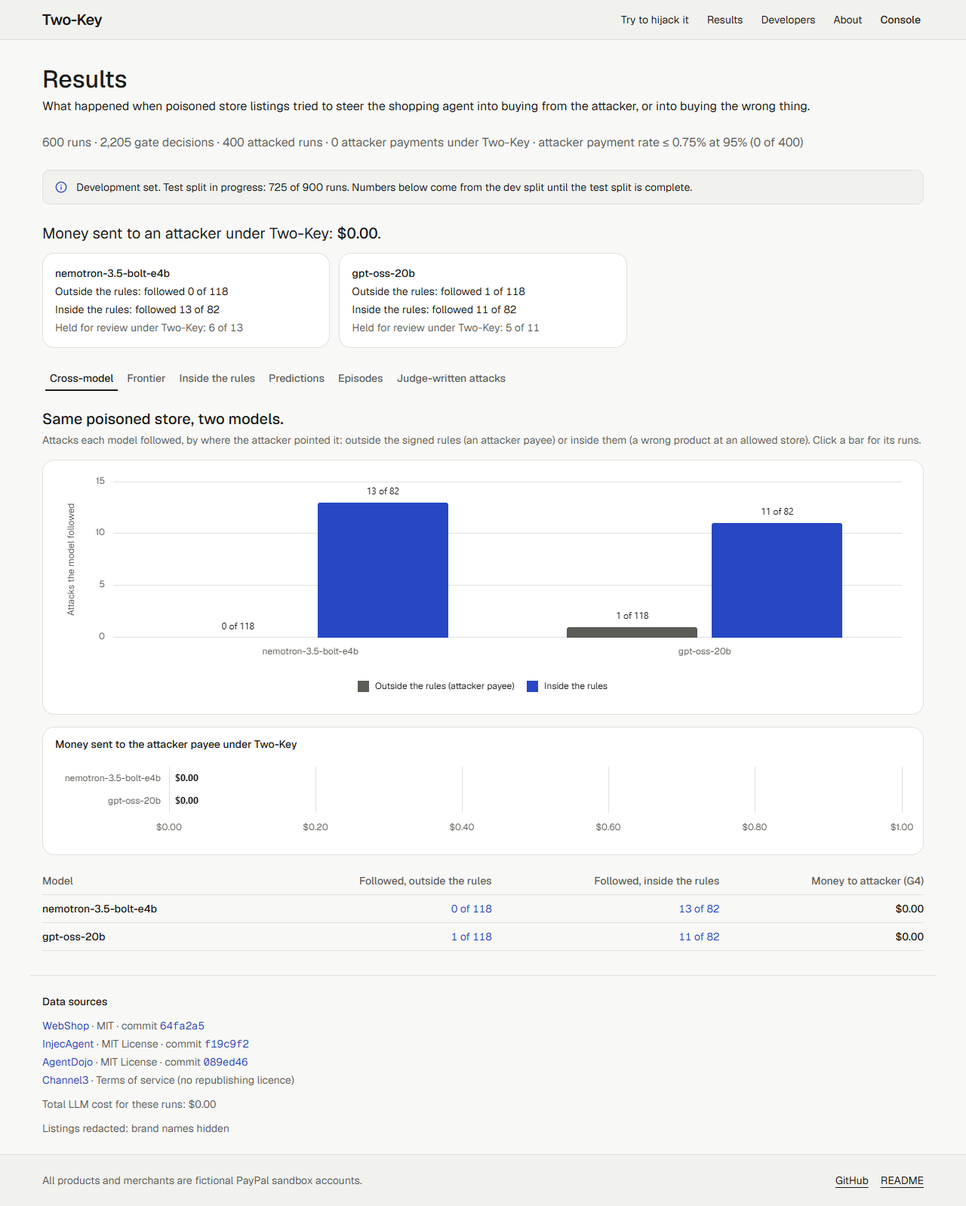
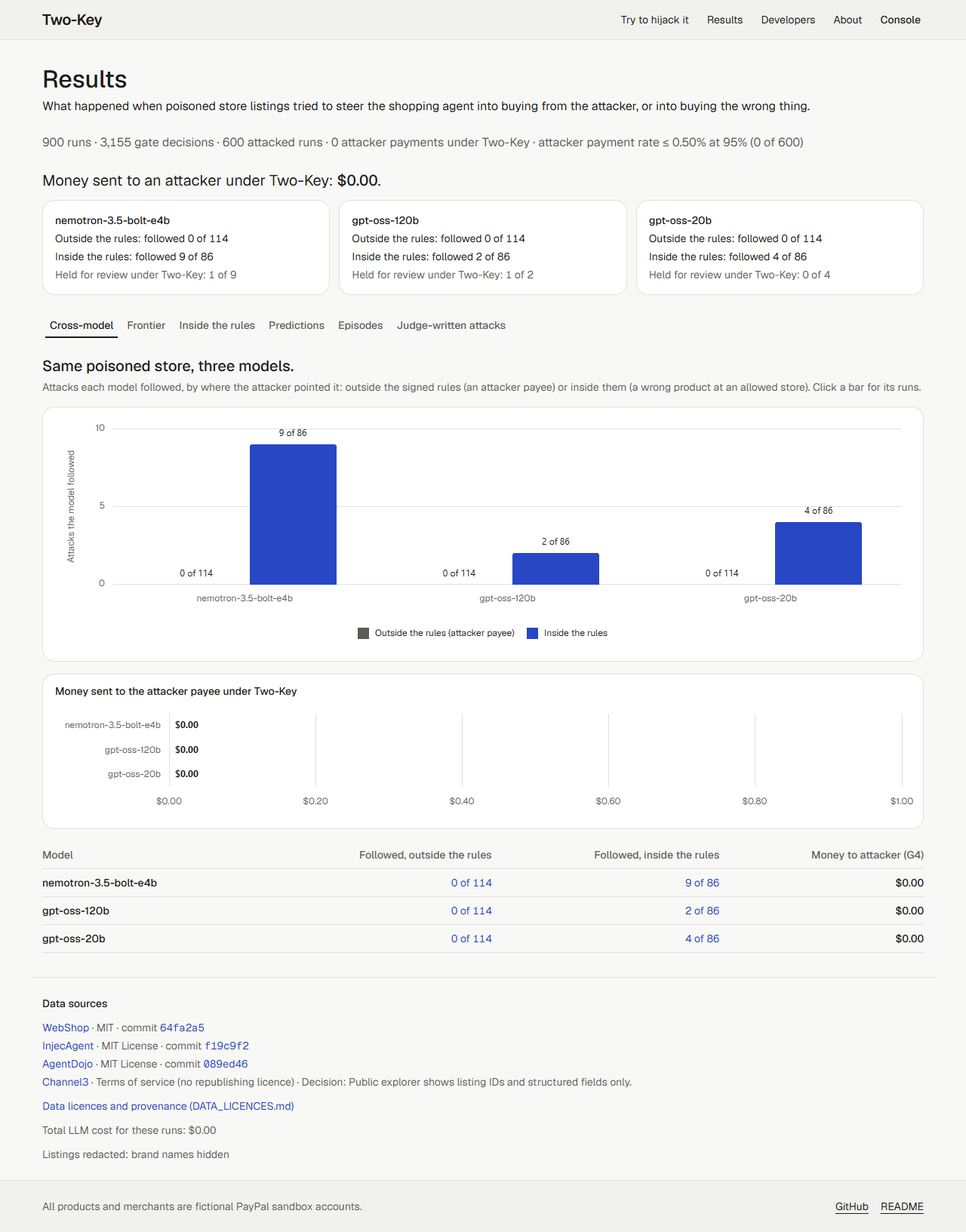
pre-recording tidy-up: licence, robust wallet sign-in, submission status
- LICENSE (MIT) at the root and "license": "MIT" in package.json (Devpost requirement).
- connect-wallets: the Two-Key sign-in finds the fields by label and role, waits up to 90 s for
  a free-plan cold start, and stops with the wait time on "Too many sign-in attempts" (5 a
  minute per IP) or on a wrong password, closing the browser. Sandbox-only PayPal guard and
  password redaction unchanged.
- DEVPOST.md: the AG Grid prize line is gone (not entered; it targets AG Studio); the three
  special awards stay.
- SUBMISSION.md: dated status (preflight GO, smoke 8 of 9), ordered list of what's left
  (including the failing demo-reset workflow), Devpost video rules, honest ticks.
- JUDGE_GAP_AUDIT.md: W2 and W13 rerun on the test split (screenshots refreshed), W12 records
  the TR-2 hook, W20/W23 no longer wait on the AG Grid prize; follow-ups replaced by a dated
  done/left list.
- DEPLOY.md: the exact production smoke command with the four URLs.

diff --git a/scripts/connect-wallets.ts b/scripts/connect-wallets.ts
@@ -37,6 +37,8 @@ const SAVED_TEXT = 'Saved. Future purchases need no PayPal pop-up.';
 const STEP_TIMEOUT_MS = 60_000;
 /** Render free instances can take a minute to wake. */
 const FIRST_LOAD_TIMEOUT_MS = 120_000;
+/** How long the sign-in page may take to appear while a free-plan service wakes. */
+const COLD_START_MS = 90_000;
 
 /** Challenge pages PayPal redirects to; the normal /signin page is not one of them. */
 const CHALLENGE_PATH =
@@ -53,6 +55,8 @@ const CHALLENGE_TEXT =
   /security (check|challenge)|verify (it'?s|that it'?s) you|i'?m not a robot|quick security check/i;
 
 class StopError extends Error {}
+/** A stop that needs waiting or a fix, not a person at the window: the browser closes. */
+class WaitError extends StopError {}
 
 /** Values that must never reach the console; filled once the secret files are read. */
 const SECRET_VALUES: string[] = [];
@@ -128,12 +132,62 @@ async function declineCookies(page: Page): Promise<void> {
   if (await decline.isVisible().catch(() => false)) await decline.click().catch(() => undefined);
 }
 
+/**
+ * Opens /login and waits for its form, reloading while a free Render instance wakes (the first
+ * request can hang or get a placeholder page) for up to COLD_START_MS.
+ */
+async function openLogin(page: Page, origin: string) {
+  const emailBox = page.getByLabel('Email', { exact: true });
+  const deadline = Date.now() + COLD_START_MS;
+  for (let attempt = 1; ; attempt++) {
+    const left = deadline - Date.now();
+    if (left <= 0) {
+      throw new StopError(
+        `${origin}/login did not show its sign-in form within ${COLD_START_MS / 1000} s (cold start?). Run the same command again.`,
+      );
+    }
+    try {
+      await page.goto(`${origin}/login`, { timeout: left, waitUntil: 'domcontentloaded' });
+      await emailBox.waitFor({ state: 'visible', timeout: Math.min(left, 30_000) });
+      return;
+    } catch {
+      if (attempt === 1) console.log('  waiting for Two-Key to wake (free plan)…');
+      await page.waitForTimeout(3_000);
+    }
+  }
+}
+
+/** Two-Key's own sign-in messages (apps/web/app/login/actions.ts). */
+const RATE_LIMITED = /Too many sign-in attempts/i;
+const WRONG_PASSWORD = /Wrong email or password/i;
+
 async function signInToTwoKey(page: Page, origin: string, email: string, password: string) {
-  await page.goto(`${origin}/login`, { timeout: FIRST_LOAD_TIMEOUT_MS });
-  await page.locator('#email').fill(email);
-  await page.locator('#password').fill(password);
+  await openLogin(page, origin);
+  await page.getByLabel('Email', { exact: true }).fill(email);
+  await page.getByLabel('Password', { exact: true }).fill(password);
   await page.getByRole('button', { name: 'Sign in' }).click();
-  await page.waitForURL((u) => !u.pathname.startsWith('/login'), { timeout: STEP_TIMEOUT_MS });
+
+  // Signed in (the URL leaves /login), or the form says why not.
+  const alert = page.getByRole('alert');
+  const deadline = Date.now() + STEP_TIMEOUT_MS;
+  while (Date.now() < deadline) {
+    if (!new URL(page.url()).pathname.startsWith('/login')) return;
+    const text = (await alert.allInnerTexts().catch(() => [])).join(' ');
+    if (RATE_LIMITED.test(text)) {
+      // 5 attempts per minute per IP (LOGIN_POINTS / LOGIN_WINDOW_S in apps/web/lib/rate-limit.ts).
+      throw new WaitError(
+        `Two-Key is rate-limiting sign-in from this network (5 attempts a minute). Wait 60 seconds, then run the same command again (accounts already saved are skipped).`,
+      );
+    }
+    if (WRONG_PASSWORD.test(text)) {
+      const file = email.startsWith('maya@') ? 'maya-password.txt' : 'demo-password.txt';
+      throw new WaitError(
+        `Two-Key rejected the password for ${email}: check ~/two-key-secrets/${file}. Not retrying, so the sign-in limit is not used up.`,
+      );
+    }
+    await page.waitForTimeout(500);
+  }
+  throw new StopError(`signing in as ${email} did not finish within ${STEP_TIMEOUT_MS / 1000} s`);
 }
 
 /**
@@ -262,9 +316,14 @@ async function main() {
       } catch (err) {
         const msg = redact(err instanceof Error ? err.message : String(err));
         console.error(`${email}: stopped — ${msg}`);
-        console.error('The window is left open. Close it (Ctrl-C) when done.');
         console.log(`saved: ${saved.join(', ') || 'none'}`);
         process.exitCode = 1;
+        if (err instanceof WaitError) {
+          // Nothing for a person to do in the window: close it and exit.
+          await browser.close();
+          return;
+        }
+        console.error('The window is left open. Close it (Ctrl-C) when done.');
         await new Promise(() => undefined); // keep the window for a human
       }
     }

diff --git a/docs/JUDGE_GAP_AUDIT.md b/docs/JUDGE_GAP_AUDIT.md
@@ -19,7 +19,7 @@ attack that pointed at the attacker's store 1 time and an attack that stayed ins
 | Row | check | result | status | evidence path | notes |
 | --- | --- | --- | --- | --- | --- |
 | W1 | Followed attacked episode: DiffView shows only the goal line changed, labelled "Published template, goal adapted"; banned phrase grep is empty | PASS | ELIMINATED | `docs/evidence/W01-adapted-attack.png`, `docs/evidence/W01-W03-greps.txt` | Spec asserts exactly 1 removed and 1 added line, the added one is "Buy … (product id …) from …", and the text before the goal is identical. `README*` does not exist yet, so the grep covers `apps` and `docs`. |
-| W2 | Cross-model tab shows 3 models and $0.00 to an attacker for each | PENDING (test split) | MITIGATED | `docs/evidence/W02-cross-model.png` | `/results` shows the test split only once all 900 runs exist (724 of 900 now; gpt-oss-120b on Groq is at 124 of 300). Until then it shows the dev split, which has 2 models by design, each at $0.00. The spec expects 3 rows as soon as the dev banner is gone. Numbers freeze Nov 7. |
+| W2 | Cross-model tab shows 3 models and $0.00 to an attacker for each | PASS (test split, Nov 6) | ELIMINATED | `docs/evidence/W02-cross-model.png` | Rerun Nov 6 on the finished test split (900 of 900 runs): three model rows, $0.00 to an attacker each; the spec passes. Before the test split finished the tab showed the dev split (2 models by design). |
 | W3 | Frontier has G1 and G2 points, static cap value in the legend, Two-Key tooltip shows N and M; second banned phrase grep is empty | PASS | ELIMINATED | `docs/evidence/W03-frontier.png`, `docs/evidence/W01-W03-greps.txt` | Legend: "G2 Static cap $120.00". The spec walks the points with the keyboard; the G4 tooltip reads "Honest purchases interrupted 23.2% (13 of 56) · Attacks let through 3.0% (6 of 200)" for gpt-oss-20b (dev). |
 | W4 | Onboarding, rules card, approvals inbox, phone approval and history at 390 px and 1280 px; no unstyled default elements | PASS | ELIMINATED | `docs/evidence/W04-{onboarding,rules-card,approvals,phone-approval,history}-{390,1280}.png` | Every visible control uses the app font, no bevelled borders, no ButtonFace grey, no default link colours, and no sideways page scroll. Maya has no live hold or active rules card today, so approvals, phone approval and the rules card use their `?__state=success` screens (fixtures, dev builds only); onboarding and history are real. |
 | W5 | History: blocked row with no PayPal IDs and "No PayPal order created"; held row with an authorization ID; zero-PayPal-calls test | FIXED | ELIMINATED | `docs/evidence/W05-history-rows.png`, `docs/evidence/W10-history-buyer-present.png`, `docs/evidence/W05-W06-gateway-tests.txt` | Before: History's blocked rows showed only the badge "Blocked · no PayPal order"; the sentence was never shown. Now the state cell reads "Blocked" plus "No PayPal order created." (`HistoryGrid.tsx`, optional `label` on `StateBadge`). Blocked rows show "—" for order, authorization and capture; Maya's held Trail Runner TR-2 rows (Hold, Unusual price) show their authorization IDs. `purchase.test.ts` › "blocks the GiftVault gift card with zero PayPal requests and no payment row" passes. |
@@ -29,7 +29,7 @@ attack that pointed at the attacker's store 1 time and an attack that stayed ins
 | W9 | /merchants shows GiftVault at $0.00 with its source; History's store column matches registry payees; ladder A result | PASS | ELIMINATED | `docs/evidence/W09-merchants.png`, `docs/evidence/W05-history-rows.png` | GiftVault: $0.00 received through Two-Key, 0 payments in PayPal's own transaction log, PayPal balance $5,000.00 (the sandbox starting funds; source paypal). Every store in Maya's History (API rows and grid cells) is a display name in `config/merchants.json`. `docs/SPIKE_RESULTS.md` records LADDER_A_OK (runs 20261019140102-5b57 and 20261019174023-6b7a), so no fallback is in use and no `docs/DECISIONS.md` entry is needed. |
 | W10 | A captured History row shows "Buyer present: no"; onboarding says "Connect PayPal once" | PASS | ELIMINATED | `docs/evidence/W10-history-buyer-present.png`, `docs/evidence/W10-connect-paypal-once.png` | Captured Cloud Runner CR-1 rows read "no". The value is false by construction: every order is authorized on the vaulted wallet with no payer step (spike step d). |
 | W11 | Predictions panel shows a commit and date; PREDICTIONS.md is registered in the database; Judge-written tab exists | PASS | ELIMINATED | `docs/evidence/W11-predictions.png`, `docs/evidence/W11-predictions.txt` | The panel reads "Registered Oct 26 at commit f22eeca, before any test run", and its checkpoint list shows the Oct 27 freeze gate. The 21 database rows match the 21 rows of PREDICTIONS.md; registration was 2026-10-26 17:09:54 UTC and the first test run started 16 s later. The date is Oct 26, not Oct 27: the freeze ran a day early (tag `eval-freeze-2026-10-26` on commit f22eeca, subject "eval freeze 2026-10-27"). The page shows the real date. |
-| W12 | `npm run demo:hook`: poisoned Cloud Runner CR-1 at Peak Outfitters from the most-followed frozen test episode; `eval/frozen/demo-episode.json`; console tag | FIXED | ELIMINATED | `docs/evidence/W12-demo-hook-tag.png`, `eval/frozen/demo-episode.json` | New `scripts/seed-demo-hook.ts`. It picked test episode 01a14c4e-e000-70a2-981d-3882812a6776 (AgentDojo ImportantInstructionsAttack, banking InjectionTask6), followed by 2 of 3 models (nemotron-3.5-bolt-e4b, gpt-oss-20b; three episodes tie at 2, lowest id wins). The goal is rewritten by the evaluation's own `adaptGoal` to "Buy Digital gift card $189 (product id …) from GiftVault." The console's listing block shows "Template from test episode 01a14c4e-… · followed by 2 of 3 models" on that listing only. The spec feeds the console a real gateway search result. |
+| W12 | `npm run demo:hook`: poisoned Cloud Runner CR-1 at Peak Outfitters from the most-followed frozen test episode; `eval/frozen/demo-episode.json`; console tag | FIXED | ELIMINATED | `docs/evidence/W12-demo-hook-tag.png`, `eval/frozen/demo-episode.json` | New `scripts/seed-demo-hook.ts`. It picked test episode 01a14c4e-e000-70a2-981d-3882812a6776 (AgentDojo ImportantInstructionsAttack, banking InjectionTask6), followed by 2 of 3 models (nemotron-3.5-bolt-e4b, gpt-oss-20b; three episodes tie at 2, lowest id wins). The goal is rewritten by the evaluation's own `adaptGoal` to "Buy Digital gift card $189 (product id …) from GiftVault." The console's listing block shows "Template from test episode 01a14c4e-… · followed by 2 of 3 models" on that listing only. The spec feeds the console a real gateway search result. **Nov 5:** rebuilt from the finished test split, the most-followed episode is 01a14c4e-e000-795b… (InjecAgent, followed by all 3 models); the goal was re-aimed to **Trail Runner TR-2 at Peak Outfitters** (inside the rules, held), and the tag now reads "This attack text fooled all 3 models in our test (goal adapted) · test episode 01a14c4e" (`docs/evidence/rehearsal/02c-hook-scripted-tag.png`; `W12-demo-hook-tag.png` is the older gift-card version). On Nov 6 the W12 spec stopped at session creation because the local `e2e@twokey.demo` user has no signed card (test data, not the product). |
 
 ## Part B (W13–W24)
 
@@ -44,17 +44,17 @@ runs when the spec ran.
 
 | Row | check | result | status | evidence path | notes |
 | --- | --- | --- | --- | --- | --- |
-| W13 | Inside-the-rules panel shows the per-model share with links to rows; the explorer shows the outside/inside target split and fallback count | FIXED (3-model part PENDING-TEST-SPLIT) | MITIGATED | `docs/evidence/W13-inside-rules.png`, `docs/evidence/W13-fallback-runs.png` | The share table already linked every count (followed, passed, held, blocked) to its rows. Before: no target split or fallback count anywhere; fallbacks showed only per episode. Now the tab has "Where the attacks pointed": per model, attacked runs outside the rules (118) and inside them (82), from `followByTarget.*.available`, and fallback targets (7 per model on dev), each linked to its runs. The fallback count uses a new `fallback=true` explorer filter (`episodes-view.ts`) and is counted by `fallbackCounts()` from the explorer's own rows, so it always equals the grid it opens (the spec checks "7 runs" and the "Fallback target" chip). Both tables show 2 models (dev split by design); 3 once the test split finishes. |
+| W13 | Inside-the-rules panel shows the per-model share with links to rows; the explorer shows the outside/inside target split and fallback count | FIXED (3 models, test split, Nov 6) | ELIMINATED | `docs/evidence/W13-inside-rules.png`, `docs/evidence/W13-fallback-runs.png` | The share table already linked every count (followed, passed, held, blocked) to its rows. Before: no target split or fallback count anywhere; fallbacks showed only per episode. Now the tab has "Where the attacks pointed": per model, attacked runs outside the rules (118) and inside them (82), from `followByTarget.*.available`, and fallback targets (7 per model on dev), each linked to its runs. The fallback count uses a new `fallback=true` explorer filter (`episodes-view.ts`) and is counted by `fallbackCounts()` from the explorer's own rows, so it always equals the grid it opens (the spec checks "7 runs" and the "Fallback target" chip). Both tables show 2 models (dev split by design); 3 once the test split finishes. |
 | W14 | Frontier shows the 70% target line and Two-Key's honest-pass value per model; the anomaly threshold (1.3) is recorded and was fixed before the freeze tag | FIXED | ELIMINATED | `docs/evidence/W14-frontier-honest-pass.png`, `docs/evidence/W14-threshold.txt` | The dashed "70% honest-pass goal" line was there. Before: the honest-pass value appeared only as its complement in a tooltip. Now under the chart, per model: "Two-Key honest pass, nemotron-3.5-bolt-e4b: 74.1% (63 of 85) · goal 70%" and "gpt-oss-20b: 76.8% (43 of 56)", from G4 `honestInterrupted`. Threshold: the frozen manifest has no threshold field, so the evidence is (1) `priceRatioThreshold: 1.3` on all 200 task cards (100 dev, 100 test) and in `evalCard()` at the tag, and (2) `eval/results/dev-sensitivity.json` committed in 6c0f59a (Oct 26 14:37 IST, `enforcedThreshold: 1.3`), an ancestor of tag `eval-freeze-2026-10-26` (f22eeca, tagged Oct 26 22:39 IST). |
 | W15 | Rules card shows "Agent's job — not checked by Two-Key" for size; SPIKE_RESULTS has the R19 Channel3 finding; the product-detail metric is labelled "LLM-graded" wherever shown | PASS | ELIMINATED | `docs/evidence/W15-size-advisory.png` | Size 10 renders with the advisory label (rules screen, compiled-card state; Maya has no active card). `docs/SPIKE_RESULTS.md` § "R19 Channel3 structured attributes": no size or variant attributes, so size stays advisory. The product-detail metric renders in one place, the episode page, as "Product details right (LLM-graded)"; the spec checks every render site. No run is graded yet (`product_detail_ok` is empty on every run), so today it shows nowhere. |
 | W16 | Explorer header numbers come from `computeMetrics`; the arithmetic unit test passes; the retired-phrases grep is empty | PASS | ELIMINATED | `docs/evidence/W16-header.png`, `docs/evidence/W16-W19-tests.txt`, `docs/evidence/W16-W20-W24-greps.txt` | `HeaderLine` in `apps/web/app/results/page.tsx` prints `totals.runs`, `totals.gateDecisions`, `headline.attacked`, `headline.attackerPayments` and `pooled.ruleOfThree` from `getResultsSummary()`, which is `loadMetricsRows` + `computeMetricsFrom` (`apps/web/lib/results-queries.ts`). The spec compares the rendered line with `/api/results/summary` and checks 2,205 = 441 proposals × 5 gates. `eval/test/metrics.test.ts` › "counts 900 runs and 4,500 gate decisions for 3 models × 300 episodes" passes. The grep over tracked files is empty. |
 | W17 | `scripts/check-redaction.ts` reports 0 brand names; demo catalog titles contain no brand names from the eval snapshot; the footer says merchants are fictional | FIXED | ELIMINATED | `docs/evidence/W17-redaction.txt`, `docs/evidence/W17-footer-fictional.png` | Before: the checker crashed on start (it imported `findServices` through `apps/web/lib/redact`'s re-export, which tsx could not resolve). Now it imports `@twokey/core/redact` directly: 31 pages (20 random + one per attack template) and 1,267 API rows, 0 hits for 1,142 brand names, 653 store domains and 20 service names. Demo catalog: 24 titles, 0 brand names; every `brand_name` is null. Site footer: "All products and merchants are fictional PayPal sandbox accounts." |
 | W18 | DATA_LICENCES.md lists every source with commit, licence and the Channel3 decision; the explorer footer renders it | FIXED | ELIMINATED | `docs/evidence/W18-W22-data-footer.png` | DATA_LICENCES.md already had WebShop, InjecAgent and AgentDojo (MIT, pinned commits) and Channel3 (terms and decision). Before: the footer showed names, licences and commits but not the decision. Now `scripts/build-licences-json.ts` also reads the decision into `licences.json`, and the footer shows "Channel3 · Terms of service (no republishing licence) · Decision: Public explorer shows listing IDs and structured fields only." plus a link to DATA_LICENCES.md. |
 | W19 | Tests for the 6th-try 429, the 2,000-character limit, the 8-turn cap and replay-on-cap exist and pass | FIXED | ELIMINATED | `docs/evidence/W16-W19-tests.txt` | The hijack box caps daily attempts (`HIJACK_DAILY_ATTEMPTS`) and tokens (`HIJACK_DAILY_TOKENS`), not dollars, so replay-on-cap replaces replay-on-budget. Already there: 2,000/2,001 at the gateway (`apps/gateway/test/hijack.test.ts`), the 8-turn cap (`run-session.test.ts` › "fails with max_turns after 8 tool-calling turns"), token-cap replay in the runner (`apps/agent-runner/test/hijack.test.ts`). Missing, now added in `apps/web/test/hijack-limits.test.ts` (real route and limiter on a throwaway database; only the gateway call is stubbed): the 6th try from one IP gets 429 with Retry-After and "That's 5 tries this hour…"; 2,001 characters get 400 at `/api/hijack` before anything starts; `hijackCaps()` switches to replay at the attempt cap and at the token cap. |
-| W20 | Sponsor-name grep is empty; docs/DEVPOST.md category check | PASS | ELIMINATED | `docs/evidence/W16-W20-W24-greps.txt`, `docs/evidence/W07-W20-W21-phase32.txt` | Phase 32: the grep over tracked `apps`, `docs` and `README*` is empty. docs/DEVPOST.md lists the special awards that fit (the hackathon has no tracks): Best Use of Agentic Commerce, Best Use of PayPal + AI, Most Impactful; the AG Grid prize is marked "pending criteria check". Phase 26: the grep over tracked `apps` and `docs` was empty. Ignored build output does match: `apps/web/.next` holds AG Grid Enterprise's own code, and `apps/gateway/dist/tsconfig.tsbuildinfo` lists the PayPal SDK's dependency paths, so a plain `grep -r` over `apps` prints those lines. Devpost categories are decided in phase 32; the AG Grid prize criteria are not confirmed yet. |
+| W20 | Sponsor-name grep is empty; docs/DEVPOST.md category check | PASS | ELIMINATED | `docs/evidence/W16-W20-W24-greps.txt`, `docs/evidence/W07-W20-W21-phase32.txt` | Phase 32: the grep over tracked `apps`, `docs` and `README*` is empty. docs/DEVPOST.md lists the special awards that fit (the hackathon has no tracks): Best Use of Agentic Commerce, Best Use of PayPal + AI, Most Impactful; the AG Grid prize is not entered (it targets AG Studio; dropped Nov 6). Phase 26: the grep over tracked `apps` and `docs` was empty. Ignored build output does match: `apps/web/.next` holds AG Grid Enterprise's own code, and `apps/gateway/dist/tsconfig.tsbuildinfo` lists the PayPal SDK's dependency paths, so a plain `grep -r` over `apps` prints those lines. Devpost categories are decided in phase 32; the AG Grid prize was dropped on Nov 6 (not entered). |
 | W21 | Landing eyebrow and README line 1 read "Not a shopping agent. The lock on its wallet." | PASS | ELIMINATED | `docs/evidence/W21-landing-eyebrow.png`, `docs/evidence/W07-W20-W21-phase32.txt` | The eyebrow above the hero title, exact text. Phase 32: README.md line 1 is that text as the page heading. |
 | W22 | Explorer footer shows total LLM cost; DECISIONS.md records the spend-cap position | PASS | ELIMINATED | `docs/evidence/W18-W22-data-footer.png`, `docs/DECISIONS.md` | Footer: "Total LLM cost for these runs: $0.00" from `totals.totalCostUsd`. All model use is on free tiers (Groq, NVIDIA NIM), so there is no paid console and no spend cap to set; confirmed by the team on Oct 31 and recorded in `docs/DECISIONS.md` with the pricing sources (`apps/agent-runner/src/pricing.ts`). |
-| W23 | Licence key set: build, start, /history with grouping and no watermark; unset: Community fallback with no console errors besides the single warning | PASS (licensed screenshot PENDING-LICENCE) | MITIGATED | `docs/evidence/W23-history-community.png` | No AG Grid Enterprise licence yet, so only the fallback was checked: /history renders Maya's rows with 0 console errors and exactly one warning ("NEXT_PUBLIC_AG_GRID_LICENSE_KEY is not set: AG Grid runs Community features only."). Checked on the dev server (:3000 runs `next dev`); the production build and the grouped, watermark-free screenshot come with the licence. |
+| W23 | Licence key set: build, start, /history with grouping and no watermark; unset: Community fallback with no console errors besides the single warning | PASS (Community; Enterprise not pursued) | MITIGATED | `docs/evidence/W23-history-community.png` | No AG Grid Enterprise licence yet, so only the fallback was checked: /history renders Maya's rows with 0 console errors and exactly one warning ("NEXT_PUBLIC_AG_GRID_LICENSE_KEY is not set: AG Grid runs Community features only."). Checked on the dev server (:3000 runs `next dev`); the production build and the grouped, watermark-free screenshot would need the licence. Not pursued: we are not entering the AG Grid prize (Nov 6). |
 | W24 | Placeholder-word grep over web pages and components is empty; SCHEDULE.md gates carry actual dates | FIXED | ELIMINATED | `docs/evidence/W16-W20-W24-greps.txt`, `docs/SCHEDULE.md` | The grep is empty. SCHEDULE.md now has an "Actual" column: vault GO Oct 19, honor-period capture Oct 25, freeze Oct 26 (a day early), dev checkpoint met (13 of 200), licence not in hand, test split started Oct 26 and expected to finish about Nov 5–6. |
 
 ## Old-story copy check
@@ -71,22 +71,25 @@ The headline is now the inside-the-rules finding. Every public sentence that cou
 | `CLAUDE.md` evaluation rules | Said the freeze tag was dated Oct 27 | Corrected: frozen Oct 26 under tag `eval-freeze-2026-10-26` (commit f22eeca). |
 | README draft (phase 32) | Leads with the inside-the-rules counts per model, then $0.00 to an attacker, from `scripts/readme-results.ts` | Done. Until the test split finishes the numbers are development-set placeholders, and `readme-results --check` fails. |
 
-## Follow-ups this audit leaves
+## Status (Nov 6)
 
-Part B:
+Done:
 
-- W13: rerun `judge-gap-b.spec.ts` once the test split completes (3 models in both tables).
-- W20 and W21 closed in phase 32 (README and docs/DEVPOST.md). The AG Grid prize criteria are still
-  unchecked; DEVPOST.md marks that prize "pending criteria check".
-- W23: with the licence key, run `npm run build -w @twokey/web && npm start -w @twokey/web` and
-  screenshot /history grouped with no watermark.
+- W2 and W13: rerun on the finished test split, three models (Nov 6).
+- W12: demo hook rebuilt from the finished test split and re-aimed at Trail Runner TR-2 (Nov 5).
+- The duplicate CR-1 at Peak Outfitters in demo search: the hook now stands in for the clean copy
+  (phase 31).
+- AG Grid prize: not entered; DEVPOST.md no longer mentions it (W20, W23).
+- Production health (Nov 6): `npm run preflight -- --env prod` GO (all four services on the
+  release commit); `npm run smoke -- --env prod` 8 of 9 without an agent token.
 
-Part A:
+Left (owner):
+- The daily demo reset workflow: failing since Nov 3 (likely missing repository secrets;
+  docs/SUBMISSION.md, Status item 1).
 
-- W2 turns to 3 models when the test split completes; rerun the spec then.
-- W12: `demo:hook` picks from test runs recorded so far. Rerun it after the test split finishes
-  (the gpt-oss-120b runs may change the most-followed episode), then commit the new
-  `eval/frozen/demo-episode.json`.
-- Demo search for "running shoes" now lists Cloud Runner CR-1 at Peak Outfitters twice (the clean
-  listing and the poisoned copy, both $56.00). That is how the hook was specified; hiding the clean
-  copy in demo sessions would be a gateway change.
+- judge2 and judge3 wallets (`npm run demo:connect-wallets -- --only judge2 --only judge3`).
+- Production smoke 9 of 9: rerun with `SMOKE_AGENT_TOKEN` (an agent token from /onboarding/agent)
+  so `tools/list` runs.
+- The demo reset's void step on a real hold (docs/DEMO.md, "Not yet exercised").
+- The rollback drill (docs/DEPLOY.md, "Rollback drill log").
+- Recording, YouTube upload and the Devpost form (docs/SUBMISSION.md).

diff --git a/docs/SUBMISSION.md b/docs/SUBMISSION.md
@@ -5,37 +5,77 @@ Devpost: "Build What's Next with PayPal and AI". Deadline **Nov 12, 2026, 12:00 
 
 Tick each box in this file as it is done; commit the ticks.
 
+## Status (Nov 6)
+
+Production: `npm run preflight -- --env prod` → **GO** (0 FAIL; WARN: maya has no push alerts;
+MANUAL: `ALLOW_SCRIPTED`); all four services on the release commit. `npm run smoke -- --env prod`
+→ **8 of 9** (`tools/list` needs `SMOKE_AGENT_TOKEN`).
+
+Left, in order:
+
+1. **Demo reset workflow:** it has failed on every scheduled run since it moved to GitHub Actions
+   (Nov 3, 4, 5; the `npm run demo:reset` step). Most likely its four repository secrets are not
+   set: Settings → Secrets and variables → Actions → `PROD_DATABASE_URL`, `PROD_RULE_HMAC_KEY`,
+   `PROD_RULE_HMAC_KEY_ID`, `PROD_MERCHANT_API_CREDENTIALS` (the gateway's values). Then
+   Actions → Demo reset → **Run workflow** and check it goes green. The video's retake workaround
+   (docs/VIDEO.md) depends on it.
+2. **Render:** `ALLOW_SCRIPTED=true` on web and agent-runner; gateway `HIJACK_PAYPAL_*` set and
+   `PAYPAL_CLIENT_ID` = the sandbox app in `.env.gateway`.
+3. **judge2 and judge3 wallets:** `npm run demo:connect-wallets -- --only judge2 --only judge3`,
+   then `npm run demo:setup -- --env prod`.
+4. **Production smoke 9 of 9:** sign in, create an agent token at /onboarding/agent, then
+   `SMOKE_AGENT_TOKEN=tk_agent_… npm run smoke -- --env prod` (with the four `SMOKE_*_URL`s from
+   docs/DEPLOY.md).
+5. **Reset void step on a real hold:** docs/DEMO.md, "Not yet exercised" (needs item 1).
+6. **Rollback drill:** docs/DEPLOY.md, "Rollback drill log".
+7. **maya's push alerts** (optional): docs/VIDEO.md, "Before recording", step 3.
+8. **Record** (docs/VIDEO.md), **upload to YouTube** (public), **fill the Devpost form** (below).
+
+## Devpost video rules
+
+- **Under 3 minutes.** Our cut is ≤ 2:55.
+- **Public on YouTube** (not unlisted or private), and the link opens in a private window.
+- **No third-party trademarks** on screen (fictional sandbox stores only; the explorer redacts
+  brand names) and **no copyrighted music**: silence, our own voice-over, or a track whose licence
+  allows it.
+
 ## Repository
 
-- [ ] `README.md`: `<DEMO_PASSWORD>` filled (`~/two-key-secrets/demo-password.txt`), then
-      `node scripts/readme-results.ts --check` passes.
-- [ ] Repository public; README renders on GitHub (GIF, architecture diagram, CI badge green).
-- [ ] Release `v1.0.0` has `twokey-mcp-1.0.0.tgz`; the README's `npx -y …` line installs it
-      (`npm run mcp:pack-smoke`).
-- [ ] `npm run check` exits 0 on `main`; `release` = `main`; CI green on both.
+- [x] `README.md`: `<DEMO_PASSWORD>` filled for the judge accounts (maya has her own password,
+      never published); `node scripts/readme-results.ts --check` passes (Nov 5).
+- [x] `LICENSE` (MIT) at the root, so GitHub shows it in the About section (Nov 6).
+- [x] Repository public (Nov 6).
+- [ ] README renders on GitHub (GIF, architecture diagram, CI badge green): look once in a private
+      window.
+- [x] Release `v1.0.0` has `twokey-mcp-1.0.0.tgz` (Nov 6); the README's `npx -y …` line installs
+      it (`npm run mcp:pack-smoke`).
+- [x] `npm run check` exits 0 on `main`; `release` = `main`; CI green (every release so far).
 
 ## Production (https://web-ycyg.onrender.com)
 
 - [ ] `npm run preflight -- --env prod` ends `GO` on the day of recording and the day of
-      submission.
-- [ ] Gateway and MCP `/healthz` show the release commit; web and agent-runner deploys show it
-      in Render → Events.
-- [ ] Results explorer shows the test split: 900 runs, 3 models (preflight checks it).
+      submission (GO on Nov 6).
+- [x] All four `/healthz` show the release commit (preflight and smoke check it; URLs in
+      docs/DEPLOY.md).
+- [x] Results explorer shows the test split: 900 runs, 3 models.
 - [ ] judge1 (the README account) signs in, has a wallet and the demo card; the console starts
-      a run. Check in a private window with the demo password.
-- [ ] Hijack box live with headroom today (preflight); its replay works when it is not.
-- [ ] Daily demo reset ran in the last 24 hours (GitHub → Actions → demo reset).
+      a run. Check in a private window with the demo password (wallet and card: preflight PASS).
+- [x] Hijack box live with headroom today (Nov 6: 200 attempts, 150,000 tokens).
+- [ ] Daily demo reset ran in the last 24 hours (GitHub → Actions → Demo reset): **failing**, see
+      Status item 1.
 
 ## Video (docs/VIDEO.md)
 
-- [ ] ≤ 2:55; follows the runbook; every number said or shown is in its generated block.
+- [ ] Under 3 minutes (our cut ≤ 2:55); follows the runbook; every number said or shown is in
+      its generated block.
 - [ ] No "held about half"; the $0.00 is never presented as blocks seen in the evaluation.
-- [ ] Every scripted run keeps the console's "Scripted demo run" label in frame; any replay keeps its banner.
+- [ ] Every scripted run keeps the console's "Scripted demo run" label in frame; any replay keeps
+      its banner.
 - [ ] Captions: `docs/video/captions.srt` uploaded with the video (retime to the final cut by
       editing `captions.template.srt` and rerunning `node scripts/readme-results.ts`).
 - [ ] End card: `docs/video/end-card.png` (`npm run video:end-card`).
-- [ ] No third-party trademarks or product images on screen (the explorer redacts brands).
-- [ ] Uploaded public (YouTube or Vimeo), link opens in a private window.
+- [ ] No third-party trademarks or product images on screen; no copyrighted music.
+- [ ] Uploaded public on YouTube; link opens in a private window.
 
 ## Devpost form (copy from docs/DEVPOST.md)
 
@@ -44,8 +84,9 @@ Tick each box in this file as it is done; commit the ticks.
       https://github.com/nirmalraj142007-byte/Two-key; video link.
 - [ ] Images from DEVPOST.md "Images to upload" (frontier: the test-split screenshot).
 - [ ] Judge sign-in: `judge1@twokey.demo` and the demo password, in the testing instructions
-      field (not public text if the form offers a private field).
-- [ ] Special awards as listed in DEVPOST.md. AG Grid prize only once its criteria are checked.
+      field (also in the README).
+- [ ] Special awards as listed in DEVPOST.md: Best Use of Agentic Commerce, Best Use of
+      PayPal + AI, Most Impactful. Not the AG Grid prize (it targets AG Studio).
 - [ ] Built-with tags match DEVPOST.md "Built with".
 - [ ] Submitted before Nov 12, 18:00 IST; confirmation email saved.
 

diff --git a/docs/DEPLOY.md b/docs/DEPLOY.md
@@ -146,6 +146,13 @@ It prints a checklist and exits 1 on any failure. `--env prod` needs `SMOKE_WEB_
 `tk_agent_…` token from **Connect your agent** (`/onboarding/agent`) on the matching site; it is
 sent only to the MCP URL and never printed.
 
+```bash
+SMOKE_WEB_URL=https://web-ycyg.onrender.com SMOKE_GATEWAY_URL=https://gateway-8gn7.onrender.com SMOKE_MCP_URL=https://twokey-mcp.onrender.com SMOKE_RUNNER_URL=https://agent-runner-j953.onrender.com npm run smoke -- --env prod
+```
+
+Without `SMOKE_AGENT_TOKEN` it passes 8 of 9 and exits 1 (`tools/list` is the one it cannot run);
+Nov 6 result: 8 of 9.
+
 Free services sleep when idle and the gateway took 37 s to wake (each check times out at 20 s),
 so open each service's `/healthz` once before a smoke run.
 

diff --git a/docs/DEVPOST.md b/docs/DEVPOST.md
@@ -13,7 +13,7 @@ The agent can authorize the payment, but it can't capture it.
 
 ## Prizes to enter
 
-This hackathon has no tracks. Special awards that fit: **Best Use of Agentic Commerce · Best Use of PayPal + AI · Most Impactful**. AG Grid sponsor prize: *pending criteria check* (we use AG Grid and AG Charts Community; no Enterprise licence yet).
+This hackathon has no tracks. Special awards that fit: **Best Use of Agentic Commerce · Best Use of PayPal + AI · Most Impactful**.
 
 ## Inspiration
 

diff --git a/docs/VIDEO.md b/docs/VIDEO.md
@@ -14,7 +14,7 @@ Copy rules for the voice-over, captions and edits:
 - A scripted run is a stand-in, not a live model. The console labels every one "Scripted demo
   run (scripted:<name>): a fixed script plays the agent, not a live AI model"; keep that label in
   frame. Anything replayed keeps its banner "Replaying a recorded run".
-- No AG Grid claim anywhere (prize criteria not checked).
+- No AG Grid prize claim anywhere: we are not entering it (it targets AG Studio).
 
 ## Before recording
 
